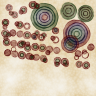
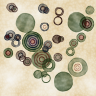
pools: make the colourway a trait so seeds choose their own colours
A sketch whose colours sit outside its output space cannot be swept.
Every seed comes out in whatever --palette said, and varying the palette
instead gives the cartesian product: one composition repeated once per
colour, which is one picture shown five ways rather than five pictures.
That is what a 45-piece sweep turned out to be. QQL has always had this;
008 was the odd one out.

The list is curated rather than the whole ColorLisa set. A transparent
wash on tinted paper asks something specific of a palette — pigments dark
enough to read against their own ground, and a lightest colour with
enough body to tint the sheet — and most of the collection was chosen by
painters for other purposes. --colourway from-flag carries weight 0, so
no seed lands on it; pass it to hand colour duty back to --palette.

Two tests had to be rewritten rather than retuned, both because they were
really testing one palette. The band-ramp test bounded the step between
consecutive bands, which says more about how far apart a palette's
neighbours are than about the code; restated as monotonic luminance it
failed too, because interpolating HSL lightness does not move luminance
monotonically when the hue turns. It now checks the ends of the ramp,
where the interpolation is the identity, so it is exact and says what the
code does whatever the palette. The starve guard's floor comes down to a
third of the budget: a structure whose rings mostly miss the sheet
[…]

diff --git a/internal/sketch/pools/banded_test.go b/internal/sketch/pools/banded_test.go
@@ -87,7 +87,7 @@ func TestBandsOverlapTheirNeighbours(t *testing.T) {
 func TestBandPitchHoldsUntilTheCapBinds(t *testing.T) {
 	s := configured(t)
 	rng := testCtx(t, 1).RNG(streamLayout)
-	_, _, ramp := s.inks(palette.ByLuminance(testCtx(t, 1).Palette.Colors))
+	_, _, ramp := s.inks(palette.ByLuminance(paletteFor(t, s, testCtx(t, 1)).Colors))
 
 	// The pitch is only free between the two limits: below a couple of
 	// bands a disc still has to come out whole, and above the cap it is the
@@ -132,7 +132,7 @@ func TestBigCircleKeepsFewWideRings(t *testing.T) {
 	radii, _ := s.layoutFor(s.Traits(ctx), ctx.RNG(streamFill)).ladder()
 	big := radii[len(radii)-1]
 	rng := testCtx(t, 1).RNG(streamLayout)
-	_, _, ramp := s.inks(palette.ByLuminance(testCtx(t, 1).Palette.Colors))
+	_, _, ramp := s.inks(palette.ByLuminance(paletteFor(t, s, testCtx(t, 1)).Colors))
 
 	p := s.planBands(rng, big, scheme{dir: 1}, ramp)
 	if n := len(p.mid); n > s.MaxBands {
@@ -145,25 +145,43 @@ func TestBigCircleKeepsFewWideRings(t *testing.T) {
 	}
 }
 
-// TestBandColoursGraduate pins the colouring rule. Anchors are neighbours
-// on the luminance-ordered pigments walked in one direction, so successive
-// bands stay related; drawing each band freely gives confetti, and ramping
-// between colours from opposite ends of a palette spends most of the mark
-// in the muddy middle.
-func TestBandColoursGraduate(t *testing.T) {
+// TestBandRampWalksNeighbours pins the colouring rule: a mark's anchors are
+// *consecutive* entries of the luminance-ordered pigments, walked in one
+// direction. A ramp between two colours from opposite ends of a palette
+// spends most of its length in the muddy middle between them, and the mark
+// comes out grey whatever its endpoints were.
+//
+// Checked at the ends, where the interpolation is the identity, so this is
+// exact. Two earlier versions bounded the *step* and then its direction,
+// and both were really testing the palette: neighbours on a five-colour
+// palette can sit far apart in luminance, and interpolating HSL lightness
+// between them does not move luminance monotonically, since hue carries
+// some of it. The endpoints say what the code does regardless.
+func TestBandRampWalksNeighbours(t *testing.T) {
 	s := configured(t, "--banded", "1")
-	for seed := uint64(1); seed <= 8; seed++ {
-		for _, c := range bandedCircles(t, s, seed) {
-			cols := c.bands.colors
-			if len(cols) < 4 {
-				continue
+	ctx := testCtx(t, 1)
+	rng := ctx.RNG(streamLayout)
+	_, _, ramp := s.inks(palette.ByLuminance(paletteFor(t, s, ctx).Colors))
+
+	// The anchors round-trip through HSL, so compare within a hair rather
+	// than exactly.
+	near := func(a, b palette.Color) bool {
+		return math.Abs(a.R-b.R) < 1e-9 && math.Abs(a.G-b.G) < 1e-9 && math.Abs(a.B-b.B) < 1e-9
+	}
+	step := func(at, k, dir int) int {
+		return ((at+k*dir)%len(ramp) + len(ramp)) % len(ramp)
+	}
+
+	for at := range ramp {
+		for _, dir := range []int{1, -1} {
+			p := s.planBands(rng, 0.2, scheme{at: at, dir: dir}, ramp)
+			last := step(at, rampAnchors-1, dir)
+			if got := p.colors[0]; !near(got, ramp[at]) {
+				t.Errorf("at=%d dir=%d: the rim band is %v, want the anchor %v", at, dir, got, ramp[at])
 			}
-			for i := 1; i < len(cols); i++ {
-				d := math.Abs(cols[i].Luminance() - cols[i-1].Luminance())
-				if d > 0.3 {
-					t.Errorf("seed %d: bands %d→%d jump %.2f in luminance — the ramp is not graduating",
-						seed, i-1, i, d)
-				}
+			if got := p.colors[len(p.colors)-1]; !near(got, ramp[last]) {
+				t.Errorf("at=%d dir=%d: the centre band is %v, want ramp[%d] = %v — the anchors are not consecutive",
+					at, dir, got, last, ramp[last])
 			}
 		}
 	}

diff --git a/internal/sketch/pools/pools_test.go b/internal/sketch/pools/pools_test.go
@@ -52,7 +52,7 @@ func plan(t *testing.T, s *Sketch, seed uint64) []circle {
 	rng := ctx.RNG(streamLayout)
 	tr := s.Traits(ctx)
 	l := s.layoutFor(tr, ctx.RNG(streamFill))
-	_, _, ramp := s.inks(palette.ByLuminance(ctx.Palette.Colors))
+	_, _, ramp := s.inks(palette.ByLuminance(paletteFor(t, s, ctx).Colors))
 	return s.plan(l, tr.Get(dimArrange), tr.Get(dimFlow), rng, 1, ramp)
 }
 
@@ -196,10 +196,11 @@ func TestEveryArrangementFillsTheSheet(t *testing.T) {
 				cs := plan(t, s, seed)
 				// Measured against the level's own budget rather than a flat
 				// number: a sparse sheet is meant to hold six marks and a
-				// packed one sixty, and the failure being guarded against —
-				// an offer so coarse the first few discs invalidate it — took
-				// both to nearly nothing.
-				if want := budget * 2 / 5; len(cs) < want {
+				// packed one sixty. A third is a floor, not a target — a
+				// structure whose rings mostly miss the sheet legitimately
+				// spends less — and it is well above the failures being
+				// guarded against, which took the sheet to nearly nothing.
+				if want := budget / 3; len(cs) < want {
 					t.Errorf("%s/%s seed %d: %d marks against a budget of %d — the structure starved",
 						a, f, seed, len(cs), budget)
 				}
@@ -219,7 +220,7 @@ func TestColourWalksInPassages(t *testing.T) {
 	rng := ctx.RNG(streamLayout)
 	tr := s.Traits(ctx)
 	l := s.layoutFor(tr, ctx.RNG(streamFill))
-	_, _, ramp := s.inks(palette.ByLuminance(ctx.Palette.Colors))
+	_, _, ramp := s.inks(palette.ByLuminance(paletteFor(t, s, ctx).Colors))
 	cs := s.plan(l, "orbital", "spiral", rng, 1, ramp)
 
 	// plan sorts by size for painting, so count distinct pigments instead
@@ -239,5 +240,39 @@ func TestColourWalksInPassages(t *testing.T) {
 	if share := float64(most) / float64(len(cs)); share < 0.25 {
 		t.Errorf("the commonest pigment holds %.0f%% of %d marks — the colour is not walking, it is scattering",
 			share*100, len(cs))
+	}
+}
+
+// paletteFor is the palette a seed's colourway resolves to — which, unlike
+// ctx.Palette, is what the render actually paints from.
+func paletteFor(t *testing.T, s *Sketch, ctx sketch.Context) palette.Palette {
+	t.Helper()
+	p, err := colours(s.Traits(ctx).Get(dimColourway), ctx.Palette)
+	if err != nil {
+		t.Fatal(err)
+	}
+	return p
+}
+
+// TestSeedsChooseTheirColours is why the colourway is a trait and not a
+// flag. Sweeping seeds has to give different pictures in different colours;
+// with the palette outside the output space every seed comes out in
+// whatever --palette said, and sweeping the palette instead gives the same
+// composition once per colour — one picture shown five ways.
+func TestSeedsChooseTheirColours(t *testing.T) {
+	s := configured(t)
+	seen := map[string]bool{}
+	for seed := uint64(1); seed <= 30; seed++ {
+		seen[s.Traits(testCtx(t, seed)).Get(dimColourway)] = true
+	}
+	if len(seen) < 6 {
+		t.Errorf("thirty seeds drew only %d colourways — the palette is not varying with the seed", len(seen))
+	}
+	if seen[fromFlag] {
+		t.Error("a seed landed on the from-flag colourway, which carries weight 0")
+	}
+	// And it is still reachable on purpose.
+	if got := configured(t, "--colourway", fromFlag).Traits(testCtx(t, 1)).Get(dimColourway); got != fromFlag {
+		t.Errorf("--colourway %s resolved to %q", fromFlag, got)
 	}
 }

diff --git a/internal/sketch/pools/colourway.go b/internal/sketch/pools/colourway.go
@@ -1,0 +1,65 @@
+package pools
+
+import (
+	"fmt"
+
+	"github.com/jaminalder/go-graphics/internal/palette"
+	"github.com/jaminalder/go-graphics/internal/trait"
+)
+
+// The colours are part of the output space, not a setting beside it.
+//
+// Without this a seed cannot choose a colourway: every seed of a sweep
+// comes out in whatever `--palette` said, and sweeping the palette instead
+// gives the cartesian product — the same composition repeated once per
+// colour, which is one picture shown five ways rather than five pictures.
+// QQL has always had this (`--qql-palette`); 008 was the odd one out.
+//
+// The list is curated rather than the whole ColorLisa set. A transparent
+// wash on tinted paper asks something specific of a palette — pigments
+// dark enough to read against their own ground, and a lightest colour that
+// can tint the sheet — and most of the collection was chosen by painters
+// for other purposes.
+
+const dimColourway = "colourway"
+
+// fromFlag hands colour duty back to whatever --palette names. It carries
+// weight 0, so a seed never lands on it: using this sketch with a palette
+// from outside the curated list is always a deliberate act.
+const fromFlag = "from-flag"
+
+// colourways are the palettes a seed may draw, all verified against the
+// wash: they hold up as pigment on their own tinted ground.
+var colourways = []trait.Value{
+	{Name: "tchelitchew-hide-and-seek", Weight: 3},
+	{Name: "botero-seated-nude", Weight: 2},
+	{Name: "diebenkorn-seawall", Weight: 2},
+	{Name: "davis-anthracite-minuet", Weight: 2},
+	{Name: "bruegel-icarus", Weight: 2},
+	{Name: "hopper-night-windows", Weight: 2},
+	{Name: "cezanne-bathers", Weight: 2},
+	{Name: "beckmann-dancing-bar", Weight: 2},
+	{Name: "avery-bicycle-rider", Weight: 1},
+	{Name: "munch-scream-oil", Weight: 1},
+	{Name: "dix-nun", Weight: 1},
+	{Name: "dechirico-red-tower", Weight: 1},
+	{Name: "chagall-mariee", Weight: 1},
+	{Name: "klee-destruction-hope", Weight: 1},
+	{Name: "botticelli-venus", Weight: 1},
+	{Name: "cassatt-letter", Weight: 1},
+	{Name: "albers-tehuana", Weight: 1},
+	{Name: "duchamp-landscape", Weight: 1},
+	{Name: fromFlag, Weight: 0},
+}
+
+// colours resolves the colourway trait to the palette a render works from.
+func colours(name string, fromCLI palette.Palette) (palette.Palette, error) {
+	if name == fromFlag {
+		return fromCLI, nil
+	}
+	p, ok := palette.ByName(name)
+	if !ok {
+		return palette.Palette{}, fmt.Errorf("pools: no palette %q", name)
+	}
+	return p, nil
+}

diff --git a/internal/sketch/pools/pools.go b/internal/sketch/pools/pools.go
@@ -173,7 +173,12 @@ func (s *Sketch) Render(ctx sketch.Context) (image.Image, error) {
 
 	tr := s.Traits(ctx)
 	l := s.layoutFor(tr, ctx.RNG(streamFill))
-	paper, tint, ramp := s.inks(palette.ByLuminance(ctx.Palette.Colors))
+
+	pal, err := colours(tr.Get(dimColourway), ctx.Palette)
+	if err != nil {
+		return nil, err
+	}
+	paper, tint, ramp := s.inks(palette.ByLuminance(pal.Colors))
 
 	circles := s.plan(l, tr.Get(dimArrange), tr.Get(dimFlow), rng, aspect, ramp)
 

diff --git a/internal/sketch/pools/ground_test.go b/internal/sketch/pools/ground_test.go
@@ -67,7 +67,7 @@ func TestGroundIsPaintedNotFilled(t *testing.T) {
 // paper and the ground would read as a stain rather than as a wash.
 func TestGroundCoversTheWholeSheet(t *testing.T) {
 	s := configured(t)
-	paper, _, _ := s.inks(palette.ByLuminance(testCtx(t, 42).Palette.Colors))
+	paper, _, _ := s.inks(palette.ByLuminance(paletteFor(t, s, testCtx(t, 42)).Colors))
 	img := bareGround(t, 42)
 	b := img.Bounds()
 

diff --git a/internal/sketch/pools/fill.go b/internal/sketch/pools/fill.go
@@ -35,6 +35,11 @@ var schema = trait.Schema{
 		Values: arrangements,
 	},
 	{
+		Name: dimColourway, Key: "c", InName: true,
+		Doc:    "which palette the pigments come from",
+		Values: colourways,
+	},
+	{
 		Name: dimFlow, Key: "w", InName: true,
 		Doc:    "the field a run of marks follows",
 		Values: flows,

diff --git a/docs/ARCHITECTURE.md b/docs/ARCHITECTURE.md
@@ -296,6 +296,8 @@ type Traited interface {
 
 | 32 | Sketch 008 borrows QQL's structures *and* its walk | The first attempt took only the seeding, on QQL's own note that the structure matters more than the field. That is true of the composition and false of the surface: what makes a QQL piece recognisable is that its marks touch — contiguous strands that curve, each holding one size and one whole colour scheme for its length. A structured grid of scattered marks has the same large-scale arrangement and reads as a scatter, which is what a review caught. Marks now advance by their own diameter along a field, which a fixed candidate grid cannot do, since the step has to follow the size of the mark being laid. Reimplemented in the sketch rather than extracted from `qql`: QQL's versions are entangled with its `frame`, its spec machinery and its tracer, so sharing would have meant retrofitting the port and risking its output for a third caller that does not exist. |
 
+| 33 | Sketch 008's palette is a trait, not just the `--palette` flag | A sketch whose colours sit outside its output space cannot be swept: every seed comes out in whatever `--palette` said, and varying the palette instead gives the cartesian product — one composition repeated once per colour, which is one picture shown five ways rather than five pictures. QQL always had this (`--qql-palette`); 008 was the odd one out, and a review of a 45-piece sweep is what made it obvious. The list is curated rather than the whole ColorLisa set, because a transparent wash on tinted paper needs pigments dark enough to read against their own ground; `from-flag` carries weight 0 and hands colour duty back to `--palette` for anything outside it. |
+
 ## 9. Roadmap
 
 1. **Sketch 001 "contour"** — shuffled-gradient contour noise (spec:

diff --git a/docs/sketches/008-pools.md b/docs/sketches/008-pools.md
@@ -75,9 +75,24 @@ a believable third colour wherever two discs cross.
 
 | Flag | Values (weight) |
 |---|---|
+| `--colourway` | 18 curated palettes, **tchelitchew 3**; `from-flag` 0 |
 | `--arrange` | **orbital 3** · **shadows 3** · formation 2 · scatter 1 |
 | `--flow` | horizontal 3 · vertical 2 · diagonal 2 · **spiral 4** · circular 2 · explosive 1 |
 | `--fill` | sparse 1 · open 2 · **medium 3** · **busy 3** · packed 2 |
+
+### `--colourway`: the colours are part of the space
+
+Without this a seed cannot choose a colourway: every seed of a sweep comes
+out in whatever `--palette` said, and sweeping the palette instead gives
+the cartesian product — the same composition repeated once per colour,
+which is one picture shown five ways rather than five pictures. QQL has
+always had this; 008 was the odd one out.
+
+The list is curated rather than the whole ColorLisa set: a transparent wash
+on tinted paper asks something specific of a palette — pigments dark enough
+to read against their own ground, and a lightest colour that can tint the
+sheet. `--colourway from-flag` carries weight 0, so no seed lands on it;
+pass it to hand colour duty back to `--palette`.
 
 ### `--arrange` and `--flow`: where the marks go
 
